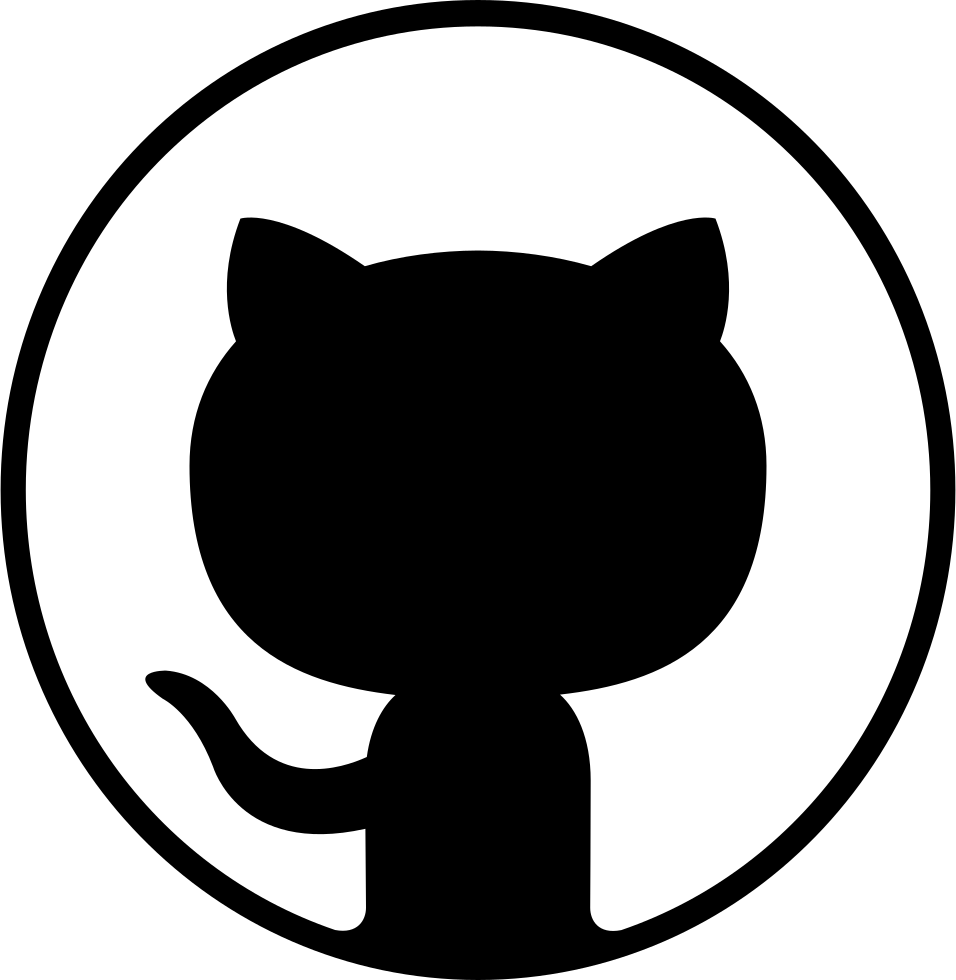
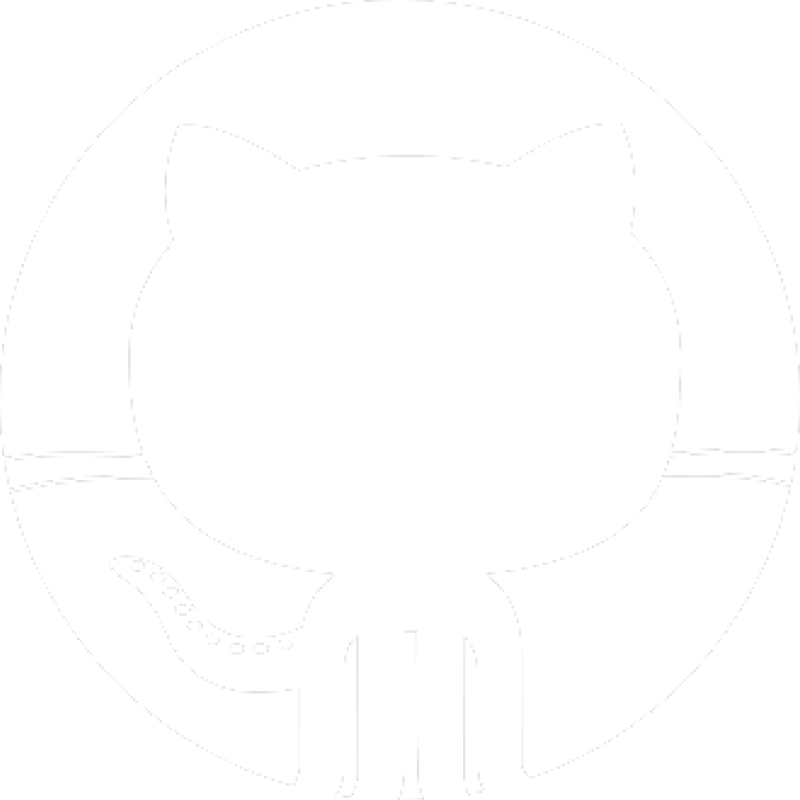
yo

diff --git a/Style.css b/Style.css
@@ -9,12 +9,17 @@
     -webkit-user-select: none; /* Chrome, Safari, and Opera */
     -ms-user-select: none; /* Internet Explorer/Edge */
     /* background-color:  rgb(218, 255, 237); */
-    background-color: rgb(201, 251, 255);
+    
 }
 
-html,body{
+html, body {
     height: 100%;
     width: 100%;
+    background-color: #18181A;
+    background-image: url('./Assets/bg.jpg');
+    background-repeat: no-repeat;
+    background-size: cover;
+    background-attachment: fixed; /* Fixed background attachment for the effect */
 }
 
 .nav{
@@ -33,17 +38,17 @@ transform: translateX(-3vw);
 .Top h4{
    font-weight: 500;
 }
-
+/* 
 #circle{
     height: 4vh;
     width: 4vh;
-    background-color: black;
+    background-color: white;
     border-radius: 50%;
     display: flex;
     position: relative;
     align-items: center;
     justify-content: center;
-}
+} */
 
 
 .nav img{
@@ -52,41 +57,47 @@ transform: translateX(-3vw);
 
 .page1{
     height: 100vh;
-    margin-bottom: 1vh;
+    width: 100vw;
+    margin-bottom: 1vw;
+    background-color: #1C1C1E;
 }
 
 .LeftColumn{ 
-    margin-top: 5vh;       
+    margin-top: 2vw;       
 }
 
-.topcirc{
-    margin-left: 5vh;
+.LeftColumn img{
+    margin-left: 2.8vw;
+}
+
+/* .topcirc{
+    margin-left: 5.5vw;
     height: 2vh;
     width: 2vh;
     background-color: black;
     border-radius: 50%;
     
-}
-
+} */
+/* 
 #top{
-    margin-left: 6vh;
+    margin-left: 6vw;
     height: 12vh;
     width: 0.2vh;
-    background-color: black;
-}
+    background-color: white;
+} */
 
 #mid{
-    margin-left: 6vh;
+    margin-left: 6vw;
     height: 12vh;
     width: 0.2vh;
-    background-color: black;
+    background-color: white;
 }
 
 #bottom{
-    margin-left: 6vh;
+    margin-left: 6vw;
     height: 12vh;
     width: 0.2vh;
-    background-color: black;
+    background-color: white;
 }
 
 .Logo{
@@ -95,6 +106,7 @@ transform: translateX(-3vw);
 }
 
 .Section1{
+    margin-top: 5vh;
     position: relative;
     display: flex;
     align-items: center ;
@@ -105,38 +117,41 @@ transform: translateX(-3vw);
 
 .Aboutme h3{
     margin-left: 8vw;
-    font-size: 8vh;
+    font-size: 4vw;
     font-weight: 100;
-    line-height: 11vh;
+    line-height: 9vh;
+    color: white;
 }
 #sub{
     margin-left: 8vw;
-    font-size: 4vh;
-    font-weight: 100;
+    font-size: 1.5vw;
+    font-weight: 200;
+    color: white;
 }
 
 .page1 span {
-    font-size: 15vh;
+    font-size: 7vw;
     font-family: 'Caveat', cursive;
     background-color: transparent;
-    color: rgb(49, 38, 255);
+    color: rgb(191, 184, 255);
 }
 
 .Aboutme h4{
     font-weight: 300;
     padding-left: 8vw;
-    width: 60%;
+    width: 62%;
+    color: white;
 }
 
 /* blob */
 .blob {
     background-image: url('./Assets/sample.jpeg');
-    width: 50vh;
-    height: 50vh;
+    width: 30vw;
+    height: 30vw;
     background-size: cover;
     -webkit-background-position: center;
     background-position: center center;
-    box-shadow: 0 5px 5px 5px rgba(49, 38, 255, 0.155);
+    box-shadow: 0 5px 5px 5px rgba(191, 184, 255,0.150);;
     animation: animate 5s ease-in-out infinite;
     transition: all 1s ease-in-out;
     margin-right: 20vh;
@@ -156,34 +171,40 @@ transform: translateX(-3vw);
 
 .page2{
     height: 100vh;
-    width: 100vh ;
+    width: 100%;
+    background-color: #1C1C1E;
+    padding-top: 18vh ;
 }
 
 .page2 h2{
     margin-top:15vh;
-    font-size: 4vh  ;
-    font-weight: 800;
-    color: rgb(49, 38, 255);
+    font-size: 2vw  ;
+    font-weight: 700;
+    color: rgb(191, 184, 255);
     margin-bottom: 1vh;
+    background-color: transparent;
 } 
 
 .images{
     margin-left: 10vh;
     gap: 2vh;
     display: flex;
+    background-color: transparent;
 }
 
 .page2 img{
     display: flex;
-    height: 35vh;
+    height: 18vw;
     border-radius: 15px;
+    background-color: transparent   ;
 }
 
 .Section2{
     display: flex;
     align-items: center;
     justify-content: space-evenly;
-    width: 200vh;
+    width: 100vw;
+    background-color: transparent
 }
 
 #img2{
@@ -191,43 +212,51 @@ transform: translateX(-3vw);
 }
 
 .text1{
-    margin-right: 15vh;
+    margin-right: 10vw;
     width: 30%;
     height: 100%;
+    background-color: transparent;
+    color: white;
 }   
 
 
 .text1 h4{
-    font-size: 3vh;
-    font-weight: 300;
+    font-size: 1.5vw;
+    font-weight: 200;
+    background-color: transparent;
+    color: white;
 }
 
 
 
 .text1 span{
-    font-size: 3vh; 
+    font-size: 1.7vw; 
     font-weight: 500;
     background-color: transparent;
 }
 
 .page3{
-    height: 100vh;
+    min-height: 100vh;
     padding: 5vh 5vh;
     text-align: center;
+    
+    background-color:#1C1C1E;
 }
 
 .page3>h1{
 font-size: 5vh;
 font-weight: 700;
 margin-bottom: 5vh;
+color: rgb(191, 184, 255);
 }
 
 .card{
     height: 80vh;   
     width: 40vh;
-    background-color: rgb(255, 255, 255);
+    background-color: #e0e9ff;
     box-shadow: 5px 5px 15px rgba(0, 0, 0, 0.2);
     border-radius: 0 0 30vh 30vh;
+    margin-bottom: 5vh;
 
 }
 
@@ -246,7 +275,6 @@ margin-bottom: 5vh;
 
 .cardTitle>h3{
     text-align: center;
-    background-color: #fff;
     font-weight: 300;
     margin-bottom: 3vh;
     padding: 0 5vh;
@@ -268,6 +296,7 @@ margin-bottom: 5vh;
 .Info{
 display: flex;
 align-items: center;
+flex-wrap: wrap;
 justify-content: space-evenly;
 }
 

diff --git a/Index.html b/Index.html
@@ -7,7 +7,7 @@
         <title>Welcome to My Domain</title>
         <link rel="preconnect" href="https://fonts.googleapis.com">
         <link rel="preconnect" href="https://fonts.gstatic.com" crossorigin>
-        <link href="https://fonts.googleapis.com/css2?family=Poppins:wght@300;400;500;700&display=swap" rel="stylesheet">
+        <link href="https://fonts.googleapis.com/css2?family=Poppins:wght@300;400;500;600;700&display=swap" rel="stylesheet">
         <link rel="preconnect" href="https://fonts.googleapis.com">
         <link rel="preconnect" href="https://fonts.gstatic.com" crossorigin>
         <link href="https://fonts.googleapis.com/css2?family=Caveat:wght@700&display=swap" rel="stylesheet">
@@ -20,7 +20,7 @@
             
             <div class="page1">
                 <div class="nav">
-                <img src="Assets/Light.png" alt="">
+                <img src="Assets/Dark.png" alt="">
 
                 <!-- <div class="Top">
                     <h4>Home</h4>
@@ -38,7 +38,7 @@
                     
                         <div class="LeftBar">
                             <div class="topcirc"></div>
-                            <div id="top"></div>
+                            <!-- <div id="top"></div> -->
                             <img src="Assets/icon-github-trans.png" class="Logo" alt="">
                             <div id="mid"></div>
                             <img src="Assets/linkedin.png" class="Logo" alt="">
@@ -67,7 +67,7 @@
    
             </div>
 
-            <div class="page2">
+            <div data-scroll data-scroll-speed="2" class="page2">
             <div class="Section2">
 
                 <div class="images">
